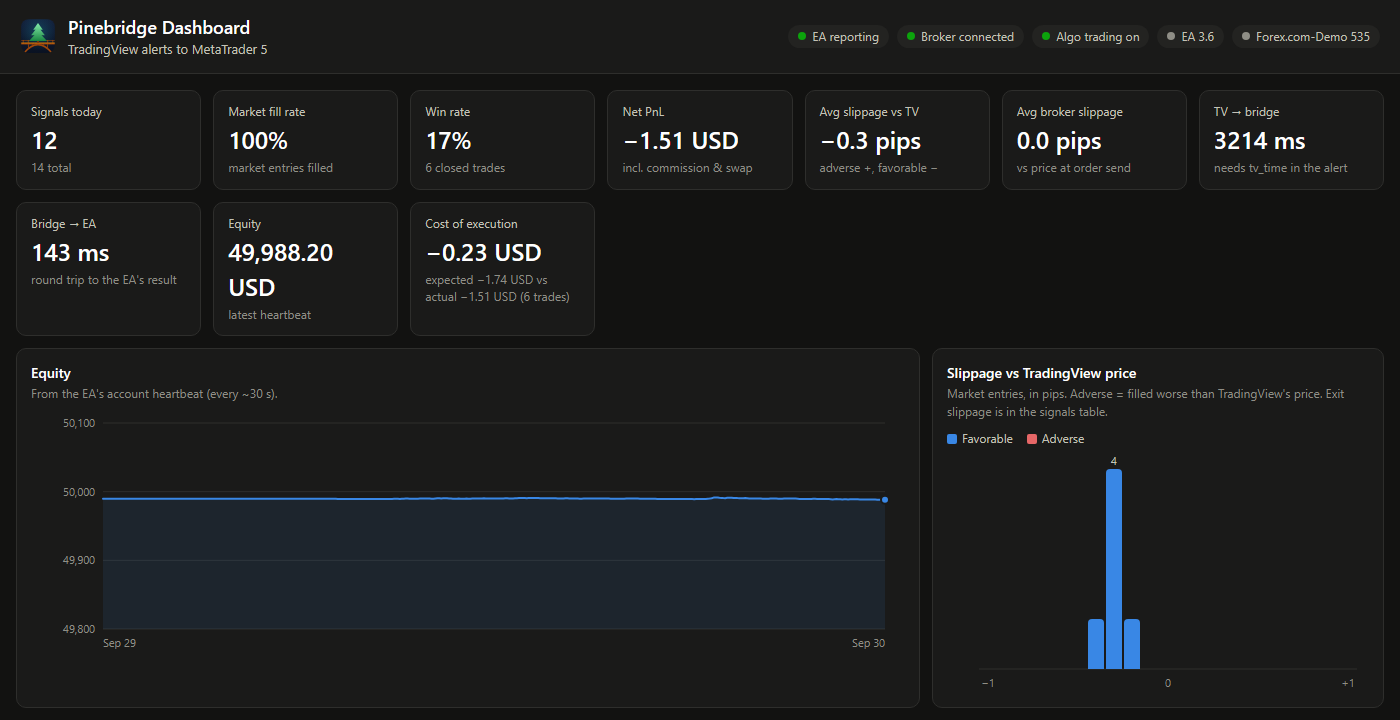
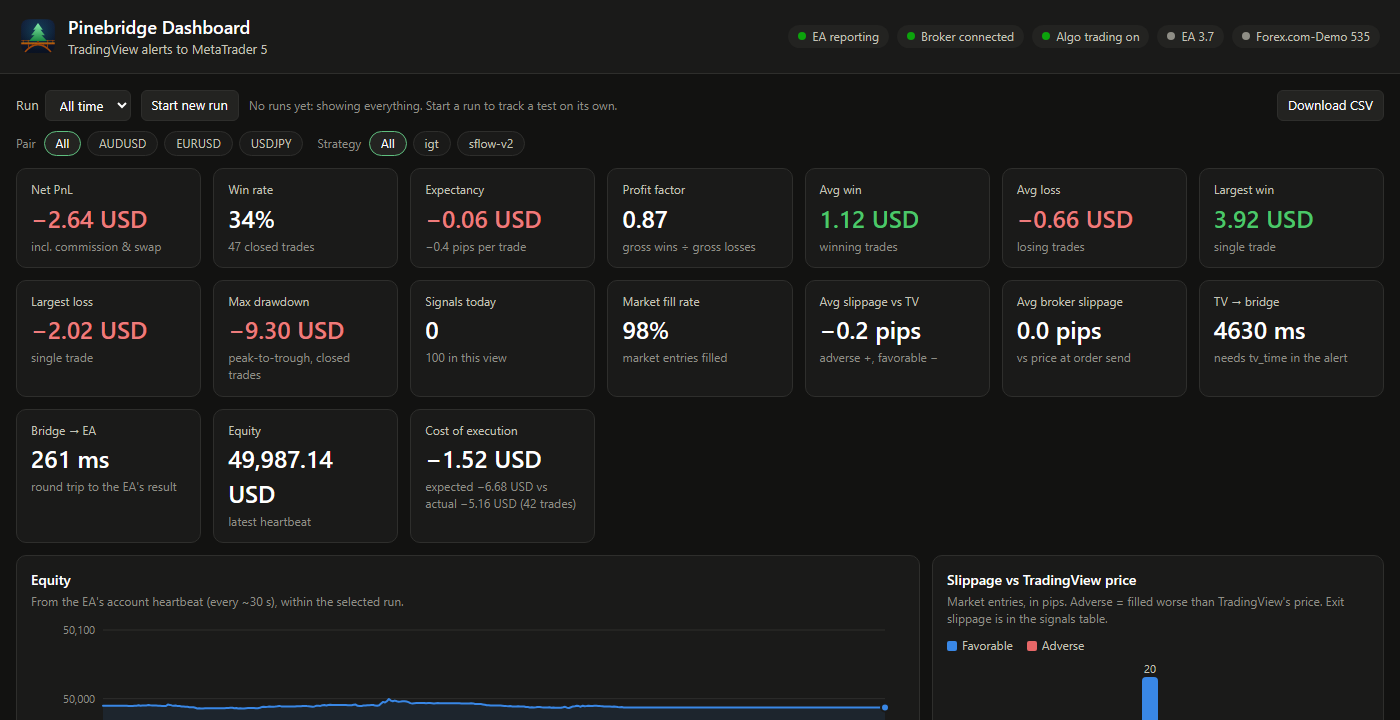
README: new dashboard screenshots and supporter perks (#17)
Screenshots from the live demo dashboard (runs, pair/strategy chips, new
stat tiles, by-pair/by-strategy tables, closed trades). Supporters get a
Pine strategy (any donation) or a premium one ($20+), as invite-only
TradingView scripts.

diff --git a/README.md b/README.md
@@ -15,7 +15,7 @@ in MT5, which runs in a Windows VM on your own machine. No signal-relay
 subscription, no VPS bill, and your broker login stays on your server
 instead of with a third-party service.
 
-<p align="center"><img src="docs/screenshots/dashboard-overview.png" alt="The Pinebridge Dashboard: signals, fill rate, win rate, PnL, slippage against TradingView, latency and equity" width="900"></p>
+<p align="center"><img src="docs/screenshots/dashboard-overview.png" alt="The Pinebridge Dashboard: run picker, pair and strategy filters, net PnL, win rate, expectancy, profit factor, drawdown, slippage against TradingView, latency and equity" width="900"></p>
 
 > [!WARNING]
 > **Pinebridge places real trades automatically, with no human
@@ -52,11 +52,16 @@ flowchart TD
 ## Screenshots
 
 **The dashboard** (`http://<server>:8081`, LAN only): every signal and what
-happened to it, fill prices, slippage against TradingView's price and the
-broker's quote, latency, win rate, PnL, cost of execution and the equity
-curve. [More about the dashboard](docs/dashboard.md).
+happened to it, and every closed trade from MT5's deal history (including
+broker SL/TP closes) with its pips and net PnL. Stats per run, pair and
+strategy: win rate, expectancy, profit factor, average win/loss, max
+drawdown, slippage against TradingView's price and the broker's quote,
+latency, cost of execution and the equity curve. Start a named run to test
+a strategy on its own (nothing is deleted), filter by pair or strategy, and
+download the trades and signal log as CSV.
+[More about the dashboard](docs/dashboard.md).
 
-<p align="center"><img src="docs/screenshots/dashboard.png" alt="Full Pinebridge Dashboard with the recent-signals table" width="900"></p>
+<p align="center"><img src="docs/screenshots/dashboard.png" alt="Full Pinebridge Dashboard: tiles, equity and slippage charts, by-pair and by-strategy tables, and the closed-trades table" width="900"></p>
 
 **MetaTrader 5 in the VM**, running the Pinebridge EA. Its Experts tab
 logs each signal as it arrives (here a `CLOSELONG`, closed in 172 ms).
@@ -212,6 +217,17 @@ uses the same images. Proxmox and bring-your-own-MT5 reports are welcome.
 
 If Pinebridge saves you a VPS or a signal subscription, consider
 [buying me a coffee](https://buymeacoffee.com/jakeshake).
+
+**Supporter perks:**
+
+- **Any donation:** a ready-to-use Pine strategy that sends
+  Pinebridge-formatted alerts.
+- **$20 or more:** a premium Pine strategy.
+
+After donating, message me on Buy Me a Coffee with your TradingView
+username, and I'll give you access to the invite-only script on
+TradingView. The scripts are tools, not trading advice: backtests and past
+results don't predict future returns. Run them on a demo account first.
 
 ## License
 
